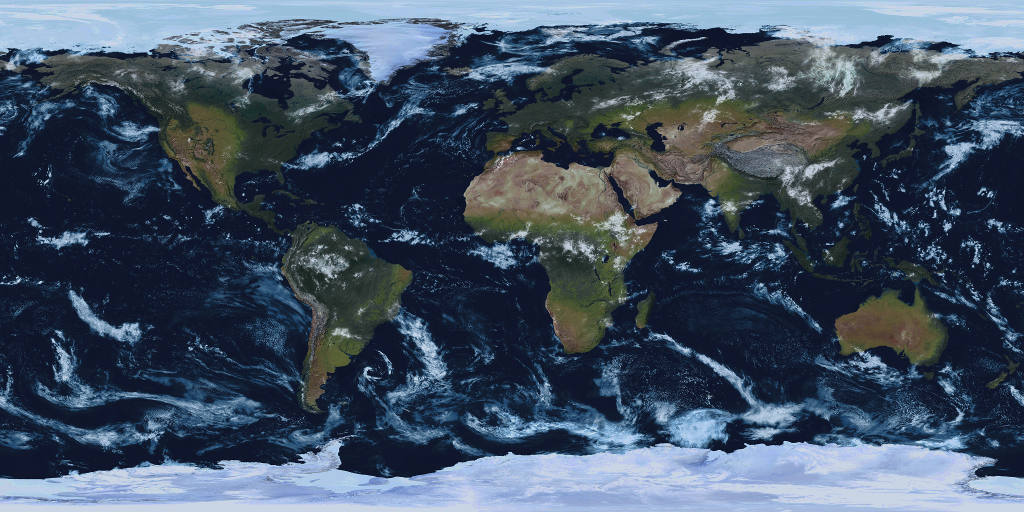
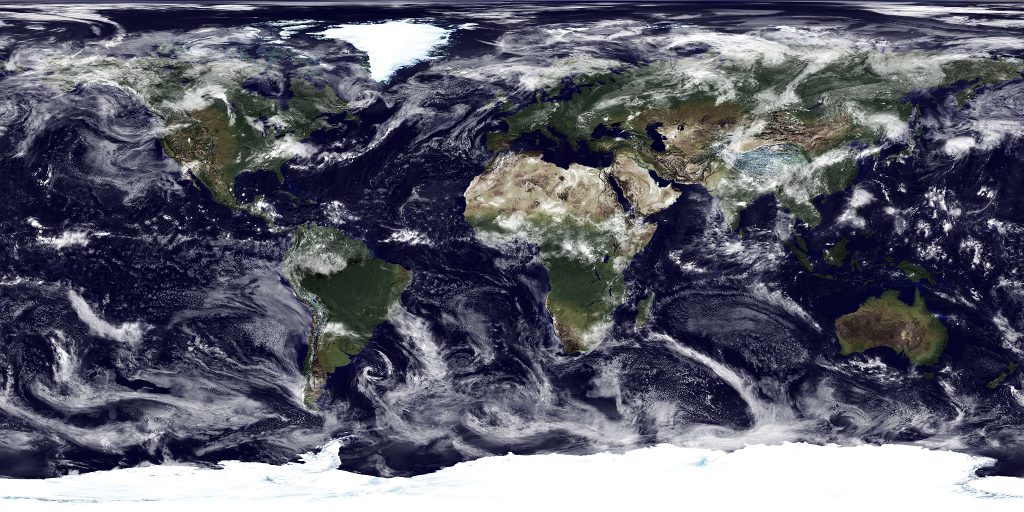
Improved small earth texture.
Fixed clipping and depth problems with shader sso renderer.

diff --git a/core/src/gaia/cu9/ari/gaiaorbit/render/SceneGraphRenderer.java b/core/src/gaia/cu9/ari/gaiaorbit/render/SceneGraphRenderer.java
@@ -1,5 +1,32 @@
 package gaia.cu9.ari.gaiaorbit.render;
 
+import java.util.ArrayList;
+import java.util.Date;
+import java.util.HashMap;
+import java.util.List;
+import java.util.Map;
+
+import com.badlogic.gdx.Gdx;
+import com.badlogic.gdx.assets.AssetManager;
+import com.badlogic.gdx.graphics.Camera;
+import com.badlogic.gdx.graphics.GL20;
+import com.badlogic.gdx.graphics.PerspectiveCamera;
+import com.badlogic.gdx.graphics.g2d.SpriteBatch;
+import com.badlogic.gdx.graphics.g3d.ModelBatch;
+import com.badlogic.gdx.graphics.g3d.Renderable;
+import com.badlogic.gdx.graphics.g3d.utils.DefaultShaderProvider;
+import com.badlogic.gdx.graphics.g3d.utils.RenderableSorter;
+import com.badlogic.gdx.graphics.g3d.utils.ShaderProvider;
+import com.badlogic.gdx.graphics.glutils.FrameBuffer;
+import com.badlogic.gdx.graphics.glutils.ShaderProgram;
+import com.badlogic.gdx.math.Vector3;
+import com.badlogic.gdx.utils.Array;
+import com.badlogic.gdx.utils.Pool;
+import com.badlogic.gdx.utils.viewport.ExtendViewport;
+import com.badlogic.gdx.utils.viewport.StretchViewport;
+import com.badlogic.gdx.utils.viewport.Viewport;
+import com.bitfire.utils.ShaderLoader;
+
 import gaia.cu9.ari.gaiaorbit.event.EventManager;
 import gaia.cu9.ari.gaiaorbit.event.Events;
 import gaia.cu9.ari.gaiaorbit.event.IObserver;
@@ -27,33 +54,6 @@ import gaia.cu9.ari.gaiaorbit.util.ds.Multilist;
 import gaia.cu9.ari.gaiaorbit.util.math.MathUtilsd;
 import gaia.cu9.ari.gaiaorbit.util.override.AtmosphereGroundShaderProvider;
 import gaia.cu9.ari.gaiaorbit.util.override.AtmosphereShaderProvider;
-
-import java.util.ArrayList;
-import java.util.Date;
-import java.util.HashMap;
-import java.util.List;
-import java.util.Map;
-
-import com.badlogic.gdx.Gdx;
-import com.badlogic.gdx.assets.AssetManager;
-import com.badlogic.gdx.graphics.Camera;
-import com.badlogic.gdx.graphics.GL20;
-import com.badlogic.gdx.graphics.PerspectiveCamera;
-import com.badlogic.gdx.graphics.g2d.SpriteBatch;
-import com.badlogic.gdx.graphics.g3d.ModelBatch;
-import com.badlogic.gdx.graphics.g3d.Renderable;
-import com.badlogic.gdx.graphics.g3d.utils.DefaultShaderProvider;
-import com.badlogic.gdx.graphics.g3d.utils.RenderableSorter;
-import com.badlogic.gdx.graphics.g3d.utils.ShaderProvider;
-import com.badlogic.gdx.graphics.glutils.FrameBuffer;
-import com.badlogic.gdx.graphics.glutils.ShaderProgram;
-import com.badlogic.gdx.math.Vector3;
-import com.badlogic.gdx.utils.Array;
-import com.badlogic.gdx.utils.Pool;
-import com.badlogic.gdx.utils.viewport.ExtendViewport;
-import com.badlogic.gdx.utils.viewport.StretchViewport;
-import com.badlogic.gdx.utils.viewport.Viewport;
-import com.bitfire.utils.ShaderLoader;
 
 /**
  * Renders a scenegraph.
@@ -214,6 +214,10 @@ public class SceneGraphRenderer extends AbstractRenderer implements IProcessRend
         // LINES
         AbstractRenderSystem lineProc = getLineRenderSystem();
 
+        // SHADER SSO
+        AbstractRenderSystem shaderFrontProc = new QuadRenderSystem(RenderGroup.SHADER_F, priority++, alphas, starShader, false);
+        shaderFrontProc.setPreRunnable(blendNoDepthRunnable);
+
         // MODEL FRONT
         AbstractRenderSystem modelFrontProc = new ModelBatchRenderSystem(RenderGroup.MODEL_F, priority++, alphas, modelBatchF, false);
         modelFrontProc.setPreRunnable(blendDepthRunnable);
@@ -240,21 +244,17 @@ public class SceneGraphRenderer extends AbstractRenderer implements IProcessRend
         };
         modelAtmProc.setPreRunnable(blendDepthRunnable);
 
-        // SHADER SSO
-        AbstractRenderSystem shaderFrontProc = new QuadRenderSystem(RenderGroup.SHADER_F, priority++, alphas, starShader, false);
-        shaderFrontProc.setPreRunnable(blendDepthRunnable);
-
         // Add components to set
         renderProcesses.add(pixelProc);
         renderProcesses.add(modelBackProc);
         renderProcesses.add(annotationsProc);
+        renderProcesses.add(shaderFrontProc);
         renderProcesses.add(shaderBackProc);
         renderProcesses.add(modelFrontProc);
         renderProcesses.add(modelStarsProc);
         renderProcesses.add(lineProc);
         renderProcesses.add(modelAtmProc);
         renderProcesses.add(labelsProc);
-        renderProcesses.add(shaderFrontProc);
 
         // INIT VIEWPORTS
         stretchViewport = new StretchViewport(Gdx.graphics.getWidth(), Gdx.graphics.getHeight());
@@ -478,7 +478,7 @@ public class SceneGraphRenderer extends AbstractRenderer implements IProcessRend
         if (GlobalConf.scene.isNormalLineRenderer()) {
             // Normal
             sys = new LineRenderSystem(RenderGroup.LINE, 0, alphas);
-            sys.setPreRunnable(blendNoDepthRunnable);
+            sys.setPreRunnable(blendDepthRunnable);
         } else {
             // Quad
             sys = new LineQuadRenderSystem(RenderGroup.LINE, 0, alphas);

diff --git a/core/src/gaia/cu9/ari/gaiaorbit/render/system/LineRenderSystem.java b/core/src/gaia/cu9/ari/gaiaorbit/render/system/LineRenderSystem.java
@@ -67,10 +67,6 @@ public class LineRenderSystem extends ImmediateRenderSystem {
     public void renderStud(List<IRenderable> renderables, ICamera camera) {
         Gdx.gl.glLineWidth(1.5f);
 
-        Gdx.gl.glEnable(GL20.GL_BLEND);
-        Gdx.gl.glEnable(GL20.GL_DEPTH_TEST);
-        Gdx.gl.glDepthMask(true);
-
         this.camera = camera;
         int size = renderables.size();
         for (int i = 0; i < size; i++) {
